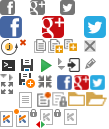
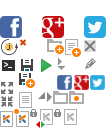
New accordion design

diff --git a/kotlin.web.demo.server/static/js/ProjectData.js b/kotlin.web.demo.server/static/js/ProjectData.js
@@ -68,6 +68,7 @@ var ProjectData = (function () {
                     localStorage.removeItem(publicId);
                     for (var i = 0; i < content.files.length; ++i) {
                         content.files[i] = File.fromLocalStorage(instance, content.files[i]);
+                        content.files[i].onModified(onModified);
                     }
                     onContentLoaded(content)
                 } else {
@@ -77,6 +78,7 @@ var ProjectData = (function () {
                         function (content) {
                             for (var i = 0; i < content.files.length; ++i) {
                                 content.files[i] = new File(instance, content.files[i]);
+                                content.files[i].onModified(onModified);
                             }
                             onContentLoaded(content);
                         },
@@ -94,6 +96,7 @@ var ProjectData = (function () {
             },
             addEmptyFile: function (name, publicId) {
                 var file = File.EmptyFile(instance, name, publicId);
+                file.onModified(onModified);
                 files.push(file);
                 instance.onFileAdded(file);
             },
@@ -104,7 +107,7 @@ var ProjectData = (function () {
                     return element.getPublicId() != publicId;
                 });
             },
-            deleteUnmodifiableFile: function(name){
+            deleteUnmodifiableFile: function (name) {
                 readOnlyFileNames = readOnlyFileNames.filter(function (element) {
                     return element != name;
                 });
@@ -171,6 +174,9 @@ var ProjectData = (function () {
             },
             makeNotRevertible: function () {
                 revertible = false
+            },
+            onModified: function (listener) {
+                modifyListeners.push(listener);
             }
         };
 
@@ -184,13 +190,12 @@ var ProjectData = (function () {
         var modified = false;
         var revertible = true;
         var readOnlyFileNames = [];
+        var modifyListeners = [];
 
         function save() {
             if (type != ProjectType.USER_PROJECT) throw "You can't save non-user projects";
 
-            projectProvider.saveProject(instance, publicId, function () {
-                modified = false;
-            })
+            projectProvider.saveProject(instance, publicId, onModified)
         }
 
         function updateProjectInLocalStorage() {
@@ -240,6 +245,13 @@ var ProjectData = (function () {
             revertible = content.hasOwnProperty("revertible") ? content.revertible : true;
             readOnlyFileNames = content.readOnlyFileNames;
             instance.onContentLoaded(files);
+        }
+
+        function onModified(){
+            modified = isModified();
+            $(modifyListeners).each(function (ind, listener) {
+                listener(modified);
+            })
         }
 
         return instance;

diff --git a/kotlin.web.demo.server/static/css/grid/elements-list.css b/kotlin.web.demo.server/static/css/grid/elements-list.css
@@ -32,9 +32,11 @@
 
 .examples-closed-folder-icon {
     display: inline-block;
-    width: 17px;
-    height: 14px;
-    background: url("/static/images/icons.png") no-repeat -68px -92px;
+    width: 5px;
+    height: 10px;
+    background: url("/static/images/icons.png") no-repeat -47px -92px;
+    position: relative;
+    top: 3px;
 }
 
 #examples-list .ui-state-active {
@@ -53,19 +55,21 @@
 
 .examples-open-folder-icon {
     display: inline-block;
-    width: 21px;
-    height: 14px;
-    background: url("/static/images/icons.png") no-repeat -86px -92px;
+    width: 7px;
+    height: 7px;
+    background: url("/static/images/icons.png") no-repeat -38px -92px;
+    top: 6px;
+    position: relative;
 }
 
 .folder-name-div {
-    padding-left: 25px;
+    padding-left: 11px;
     padding-top: 2px;
     padding-right: 10px;
 }
 
 .examples-folder-name {
-    /*display: inline-block;*/
+    background-color: #f7f7f7;
     font-size: 14px;
     padding-left: 6px;
 }
@@ -102,13 +106,17 @@
     background-color: #d8d8d8;
 }
 
-.examples-project-name .arrow {
+.examples-project-name .img {
     display: inline-block;
     float: left;
     margin-right: 5px;
-    width: 12px;
-    height: 14px;
-    background: url("/static/images/icons.png") -34px -39px;
+    width: 15px;
+    height: 13px;
+    background: url("/static/images/icons.png") -53px -91px;
+}
+
+.examples-project-name.modified .img{
+    background: url("/static/images/icons.png") -69px -91px;
 }
 
 #examples-list .ui-icon {
@@ -221,20 +229,19 @@
 
 .newProjectButton {
     float: right;
-    width: 15px;
-    height: 14px;
+    width: 17px;
+    height: 15px;
     margin-right: 3px;
-    background: url("/static/images/icons.png") no-repeat -48px -39px;
+    background: url("/static/images/icons.png") no-repeat -47px -39px;
 }
 
 .new-file-button {
     display: none;
     float: right;
-    width: 13px;
-    height: 12px;
-    margin-top: 2px;
-    margin-right: 2px;
-    background: url("/static/images/icons.png") no-repeat -64px -39px;
+    width: 16px;
+    height: 18px;
+    margin-right: 4px;
+    background: url("/static/images/icons.png") no-repeat -65px -39px;
 }
 
 .examples-project-name.selected .new-file-button {

diff --git a/kotlin.web.demo.server/static/js/views/ProjectView.js b/kotlin.web.demo.server/static/js/views/ProjectView.js
@@ -101,10 +101,17 @@ var ProjectView = (function () {
         };
 
         var nameSpan;
-        var modified = false;
         var project = (function () {
 
             project = new ProjectData(header.type, header.publicId, header.name);
+
+            project.onModified(function(isProjectContentChanged){
+                if(isProjectContentChanged) {
+                    $(headerElement).addClass("modified");
+                } else{
+                    $(headerElement).removeClass("modified");
+                }
+            });
 
             project.onRenamed = function (newName) {
                 nameSpan.innerHTML = newName;
@@ -208,7 +215,7 @@ var ProjectView = (function () {
             $(contentElement).slideUp();
             headerElement.className = "examples-project-name";
             var img = document.createElement("div");
-            img.className = "arrow";
+            img.className = "img high-res-icon";
             headerElement.appendChild(img);
             headerElement.onclick = function () {
                 instance.onHeaderClick(header.publicId);
@@ -245,7 +252,7 @@ var ProjectView = (function () {
                 headerElement.appendChild(renameImg);
 
                 var addFileImg = document.createElement("div");
-                addFileImg.className = "new-file-button";
+                addFileImg.className = "new-file-button high-res-icon";
                 addFileImg.innerHTML = "Add new file";
                 addFileImg.style.cursor = "pointer";
                 addFileImg.onclick = function (event) {

diff --git a/kotlin.web.demo.server/static/js/File.js b/kotlin.web.demo.server/static/js/File.js
@@ -48,20 +48,16 @@ var File = (function () {
             onFileSaved: function () {
             },
             compareContent: function () {
-                if (text == originalText) {
-                    modified = false;
-                    instance.onUnmodified();
-                } else {
-                    modified = true;
-                    instance.onModified();
-                }
+                modified = !(text == originalText);
+                $(modifyListeners).each(function(ind, listener){
+                    listener(modified);
+                });
             },
             isModified: function () {
                 return modified;
             },
-            onModified: function () {
-            },
-            onUnmodified: function () {
+            onModified: function (listener) {
+                modifyListeners.push(listener);
             },
             deleteThis: function () {
                 if(modifiable) {
@@ -136,6 +132,7 @@ var File = (function () {
         var changesHistory = null;
         var modified = false;
         var revertible = true;
+        var modifyListeners = [];
 
         function save() {
             fileProvider.saveFile(instance, function () {

diff --git a/kotlin.web.demo.server/static/js/views/FileView.js b/kotlin.web.demo.server/static/js/views/FileView.js
@@ -42,18 +42,19 @@ var FileView = (function () {
         };
 
         var fileNameElement;
-        file.onModified = function () {
-            $(headerElement).addClass("modified");
-            if (isSelected()) {
-                accordion.onModifiedSelectedFile(file);
+        file.onModified(function (isFileContentChanged) {
+            if(isFileContentChanged) {
+                $(headerElement).addClass("modified");
+                if (isSelected()) {
+                    accordion.onModifiedSelectedFile(file);
+                }
+            } else {
+                $(headerElement).removeClass("modified");
+                if (isSelected()) {
+                    accordion.onUnmodifiedSelectedFile(file);
+                }
             }
-        };
-        file.onUnmodified = function () {
-            $(headerElement).removeClass("modified");
-            if (isSelected()) {
-                accordion.onUnmodifiedSelectedFile(file);
-            }
-        };
+        });
         file.onDeleted = function () {
             if (isSelected()) {
                 accordion.onSelectedFileDeleted();

diff --git a/kotlin.web.demo.server/static/css/grid/toolbox.css b/kotlin.web.demo.server/static/css/grid/toolbox.css
@@ -122,7 +122,7 @@
     width: 4px;
     height: 7px;
     margin: auto auto 5px 5px;
-    background: url("/static/images/icons.png") no-repeat -9px -74px;
+    background: url("/static/images/icons.png") no-repeat -58px -58px;
 }
 
 #argumentsButton.active .arrow {
@@ -130,7 +130,7 @@
     width: 7px;
     height: 4px;
     margin: auto auto 5px 4px;
-    background: url("/static/images/icons.png") no-repeat -0px -74px;
+    background: url("/static/images/icons.png") no-repeat -58px -66px;
 }
 
 #runMode {
@@ -204,7 +204,7 @@
     height: 4px;
     float: right;
     margin-top: 3px;
-    background: url("/static/images/icons.png") -0px -74px;
+    background: url("/static/images/icons.png") -58px -66px;
 }
 
 .ui-selectmenu-menu .ui-state-focus {

diff --git a/kotlin.web.demo.server/static/js/views/AccordionComponent.js b/kotlin.web.demo.server/static/js/views/AccordionComponent.js
@@ -277,7 +277,7 @@ var AccordionView = (function () {
                 myProg.appendChild(login_link);
             } else {
                 var newProjectButton = document.createElement("div");
-                newProjectButton.className = "newProjectButton";
+                newProjectButton.className = "newProjectButton high-res-icon";
                 newProjectButton.onclick = function (e) {
                     newProjectDialog.open(projectProvider.addNewProject, "Untitled");
                     e.stopPropagation();

diff --git a/kotlin.web.demo.server/static/css/grid/login.css b/kotlin.web.demo.server/static/css/grid/login.css
@@ -90,14 +90,14 @@
 
 #fullscreenButton .img {
     width: 12px;
-    height: 13px;
+    height: 12px;
     float: left;
     margin-top: 1px;
     background: url("/static/images/icons.png") no-repeat -1px -82px;
 }
 
 #fullscreenButton.fullscreen .img {
-    background: url("/static/images/icons.png") no-repeat -38px -74px;
+    background: url("/static/images/icons.png") no-repeat -1px -95px;
 }
 
 #fullscreenButton .text {
